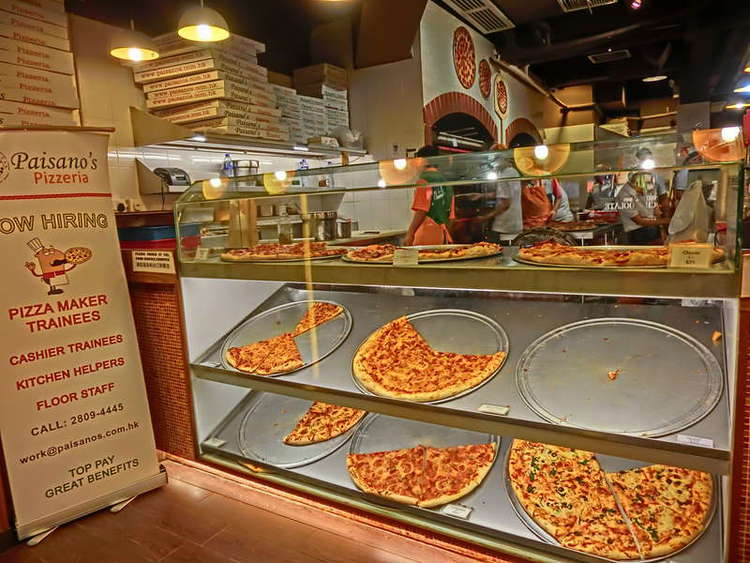
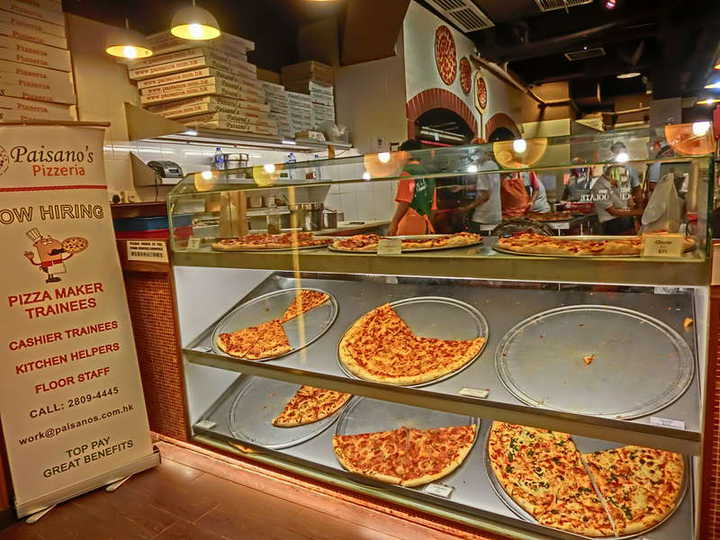
compress pizzeria img

diff --git a/Gruntfile.js b/Gruntfile.js
@@ -6,8 +6,8 @@ module.exports = function(grunt) {
         options: {
           engine: 'im',
           sizes: [{
-            width: 750,
-            quality: 60
+            width: 720,
+            quality: 50
           }]
         },
         files: [{
